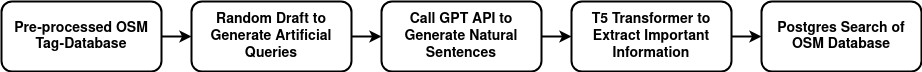
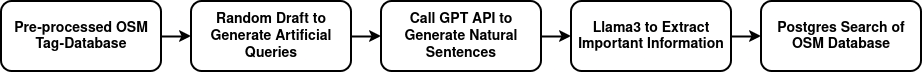
Updated readme from T5 to Llama3

diff --git a/README.md b/README.md
@@ -23,7 +23,7 @@ The general idea of the pipeline is the following:
 1) Bundle similar tags, assign natural language descriptors to create better semantic connections between language and the OSM tagging system
 2) Generate random artificial queries including area definition, objects (incl. tags and descriptors) and relations/distances
 3) Call GPT API to generate artificial natural sentences from the draft
-4) Use T5 transformer to extract relevant information from sentences
+4) Use Llama3 to extract relevant information from sentences
 5) Perform Postgres query in OSM database & display in geographic map
 
 The GUI allows for the display of results of the natural language query
